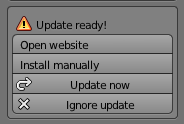
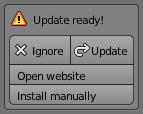
minor code cleanup, made panel update notice box cleaner, and added extra check for error in malformed update-ready json file

diff --git a/addon_updater_ops.py b/addon_updater_ops.py
@@ -604,7 +604,7 @@ def background_update_callback(update_ready):
 		return
 
 	if updater.showpopups == False:
-		return 
+		return
 
 	if update_ready != True:
 		return
@@ -783,16 +783,16 @@ def update_notice_box_ui(self, context):
 	col = box.column(align=True)
 	col.label("Update ready!",icon="ERROR")
 	col.separator()
-	row = col.row()
-	split = row.split()
+	row = col.row(align=True)
+	split = row.split(align=True)
 	colL = split.column(align=True)
-
-	colL.operator(addon_updater_ignore.bl_idname,icon="X")
+	colL.scale_y = 1.5
+	colL.operator(addon_updater_ignore.bl_idname,icon="X",text="Ignore")
 	colR = split.column(align=True)
-	col.separator()
+	colR.scale_y = 1.5
 	if updater.manual_only==False:
 		colR.operator(addon_updater_update_now.bl_idname,
-						"Update now", icon="LOOP_FORWARDS")
+						"Update", icon="LOOP_FORWARDS")
 		col.operator("wm.url_open", text="Open website").url = updater.website
 		#col.operator("wm.url_open",text="Direct download").url=updater.update_link
 		col.operator(addon_updater_install_manually.bl_idname, "Install manually")
@@ -1121,10 +1121,9 @@ def skip_tag_function(self, tag):
 # Only customize if trying to leverage "attachments" in *GitHub* releases
 # A way to select from one or multiple attached donwloadable files from the
 # server, instead of downloading the default release/tag source code
-# Note: this demo 
 def select_link_function(self, tag):
 	link = ""
-	
+
 	# -- Default, universal case (and is the only option for GitLab/Bitbucket)
 	link = tag["zipball_url"]
 
@@ -1185,12 +1184,12 @@ def register(bl_info):
 
 	# Website for manual addon download, optional but recommended to set
 	updater.website = "https://github.com/CGCookie/blender-addon-updater/"
-	
+
 	# Addon subfolder path
 	# "sample/path/to/addon"
 	# default is "" or None, meaning root
 	updater.subfolder_path = ""
-	
+
 	# used to check/compare versions
 	updater.current_version = bl_info["version"]
 
@@ -1221,8 +1220,8 @@ def register(bl_info):
 	# Patterns for files to actively overwrite if found in new update
 	# file and are also found in the currently installed addon. Note that
 
-	# by default (ie if set to []), updates are installed in the same way as blender: 
-	# .py files are replaced, but other file types (e.g. json, txt, blend) 
+	# by default (ie if set to []), updates are installed in the same way as blender:
+	# .py files are replaced, but other file types (e.g. json, txt, blend)
 	# will NOT be overwritten if already present in current install. Thus
 	# if you want to automatically update resources/non py files, add them
 	# as a part of the pattern list below so they will always be overwritten by an
@@ -1263,7 +1262,7 @@ def register(bl_info):
 	updater.include_branches = True
 
 	# (GitHub only) This options allows the user to use releases over tags for data,
-	# which enables pulling down release logs/notes, as well as specify installs from 
+	# which enables pulling down release logs/notes, as well as specify installs from
 	# release-attached zips (instead of just the auto-packaged code generated with
 	# a release/tag). Setting has no impact on BitBucket or GitLab repos
 	updater.use_releases = False
@@ -1292,9 +1291,9 @@ def register(bl_info):
 	# check for update in user preferences found a new version, show a popup
 	# (at most once per blender session, and it provides an option to ignore
 	# for future sessions); default behavior is set to True
-	updater.showpopups = True  
-	# note: if set to false, there will still be an "update ready" box drawn 
-	# using the `update_notice_box_ui` panel function. 
+	updater.showpopups = True
+	# note: if set to false, there will still be an "update ready" box drawn
+	# using the `update_notice_box_ui` panel function.
 
 	# Override with a custom function on what tags
 	# to skip showing for updater; see code for function above.

diff --git a/addon_updater.py b/addon_updater.py
@@ -362,15 +362,15 @@ class Singleton_updater(object):
 	@property
 	def current_version(self):
 		return self._current_version
-	
+
 	@property
 	def subfolder_path(self):
 		return self._subfolder_path
-    
+
 	@subfolder_path.setter
 	def subfolder_path(self, value):
 		self._subfolder_path = value
-		
+
 	@property
 	def update_ready(self):
 		return self._update_ready
@@ -796,7 +796,7 @@ class Singleton_updater(object):
 			if len(dirlist)>0:
 				if self._subfolder_path == "" or self._subfolder_path == None:
 					unpath = os.path.join(unpath,dirlist[0])
-				else:	
+				else:
 					unpath = os.path.join(unpath,dirlist[0],self._subfolder_path)
 
 			# smarter check for additional sub folders for a single folder
@@ -1000,7 +1000,7 @@ class Singleton_updater(object):
 	# called for running check in a background thread
 	def check_for_update_async(self, callback=None):
 
-		if self._json != None and "update_ready" in self._json:
+		if self._json != None and "update_ready" in self._json and self._json["version_text"]!={}:
 			if self._json["update_ready"] == True:
 				self._update_ready = True
 				self._update_link = self._json["version_text"]["link"]

diff --git a/__init__.py b/__init__.py
@@ -125,7 +125,7 @@ class DemoPreferences(bpy.types.AddonPreferences):
 		# could also pass in col as third arg
 		addon_updater_ops.update_settings_ui(self, context)
 
-		# Alternate draw function, which is more condensed and can be 
+		# Alternate draw function, which is more condensed and can be
 		# placed within an existing draw function. Only contains:
 		#   1) check for update/update now buttons
 		#   2) toggle for auto-check (interval will be equal to what is set above)
